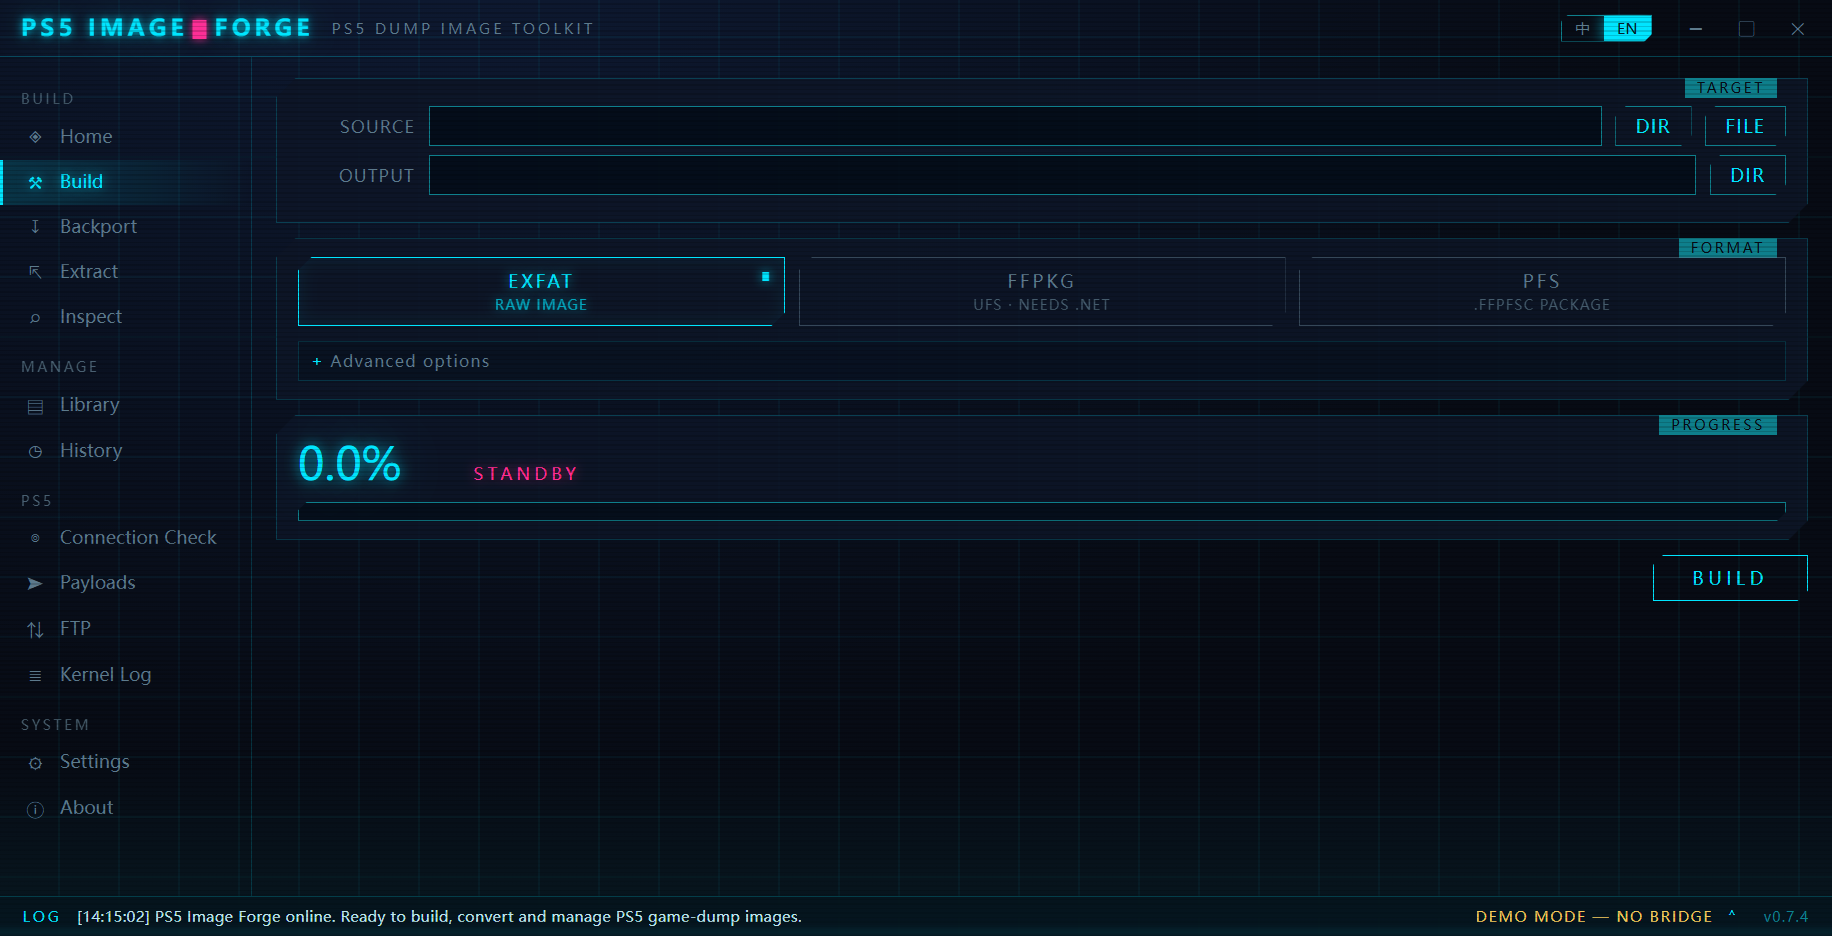
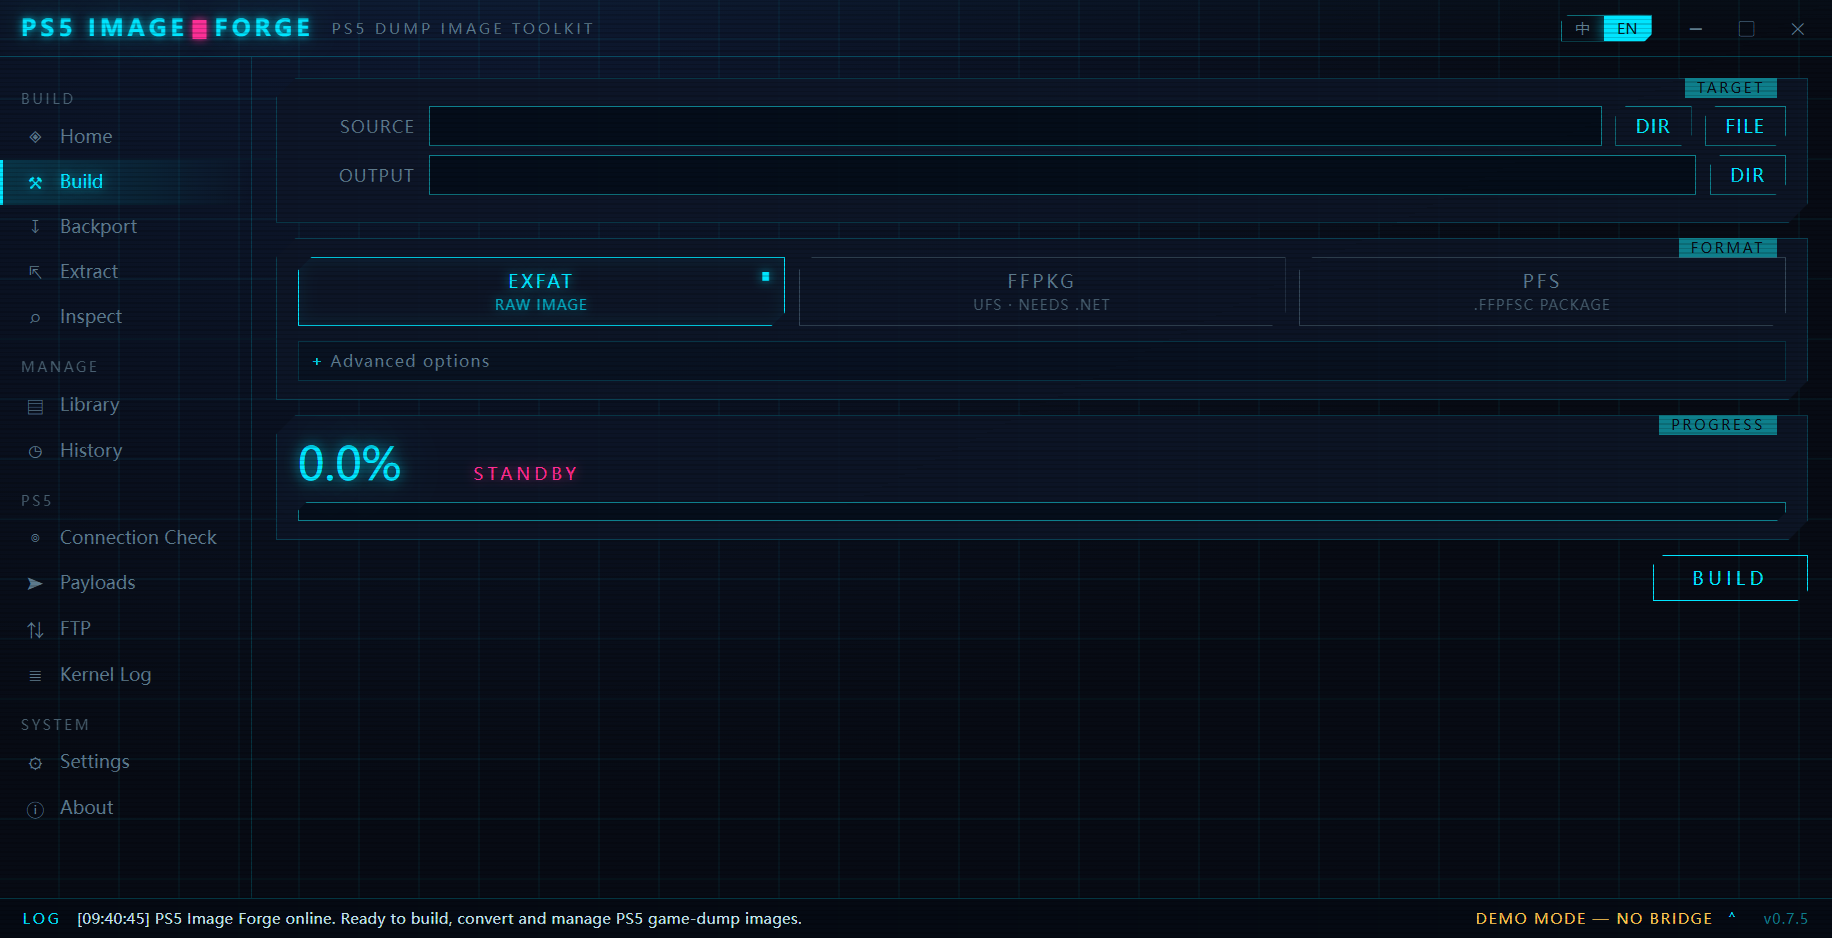
Sync the version to 0.7.5 everywhere, refresh the screenshots
__init__.py and webui/app.js were both still on 0.7.4 while pyproject said
0.7.5, so the shipped app reported a version it wasn't. Both are user-visible:
__version__ reaches the UI through bridge.py, APP_VERSION is what demo mode
shows. DEVELOPMENT.md now carries the bump checklist that would have caught it.

Screenshots were taken before the SCAN button moved to the Target SDK row, and
carried the old version in the footer; all four retaken.

READMEs: the platform badge omitted macOS, which has shipped since v0.7.4.

diff --git a/src/ps5_image_forge/webui/app.js b/src/ps5_image_forge/webui/app.js
@@ -9,7 +9,7 @@
 const $ = id => document.getElementById(id);
 const $$ = sel => Array.from(document.querySelectorAll(sel));
 const bridge = () => (window.pywebview && window.pywebview.api) || null;
-const APP_VERSION = "0.7.4";
+const APP_VERSION = "0.7.5";
 let currentUiScale = 1;
 
 function syncScaleLayout() {

diff --git a/src/ps5_image_forge/__init__.py b/src/ps5_image_forge/__init__.py
@@ -1,3 +1,3 @@
 """PS5 Image Forge — toolkit for building, converting and managing PS5 game-dump images."""
 
-__version__ = "0.7.4"
+__version__ = "0.7.5"

diff --git a/docs/DEVELOPMENT.md b/docs/DEVELOPMENT.md
@@ -110,6 +110,20 @@ PS5-Image-Forge-Setup-<ver>.exe      setup.nsi，SilentInstall silent
 - **绝不强杀主程序**：检测到运行中就提示用户关闭并提供「重新检测」。
 - `uninstall.exe` 是外层 setup 的逐字节副本，靠 `--self=$EXEPATH` 复用同一个壳。
 
+### 发版前的版本号清单
+
+版本号散在三处源文件里，**漏一处就会发出自相矛盾的版本**（0.7.5 就漏过两处：
+应用里显示 0.7.4，包版本却是 0.7.5）：
+
+| 位置 | 用途 |
+|---|---|
+| `pyproject.toml` 的 `version` | 包版本，CI 与构建脚本都读它 |
+| `src/ps5_image_forge/__init__.py` 的 `__version__` | 经 `bridge.py` 显示在 UI 上 |
+| `src/ps5_image_forge/webui/app.js` 的 `APP_VERSION` | demo 模式（无后端）时的显示值 |
+
+另外 `docs/DEVELOPMENT.md` 的状态头、`docs/screenshots/` 里印着版本号的截图，
+以及 CHANGELOG 也要一起更新。
+
 ### 发布（`.github/workflows/release.yml`）
 
 推送 `v*` tag 触发，产出 Windows 便携版 + 安装版、Linux AppImage、macOS DMG，

diff --git a/README.md b/README.md
@@ -6,7 +6,7 @@
 
 [![release](https://github.com/freefrank/ps5-image-forge/actions/workflows/release.yml/badge.svg)](https://github.com/freefrank/ps5-image-forge/actions/workflows/release.yml)
 [![License: GPL-3.0](https://img.shields.io/badge/License-GPLv3-blue.svg)](LICENSE)
-![Platform](https://img.shields.io/badge/platform-Windows%20%7C%20Linux-8A2BE2)
+![Platform](https://img.shields.io/badge/platform-Windows%20%7C%20Linux%20%7C%20macOS-8A2BE2)
 ![Python](https://img.shields.io/badge/python-3.11%2B-3776AB)
 
 English · [简体中文](README.zh-CN.md)

diff --git a/README.zh-CN.md b/README.zh-CN.md
@@ -6,7 +6,7 @@
 
 [![release](https://github.com/freefrank/ps5-image-forge/actions/workflows/release.yml/badge.svg)](https://github.com/freefrank/ps5-image-forge/actions/workflows/release.yml)
 [![License: GPL-3.0](https://img.shields.io/badge/License-GPLv3-blue.svg)](LICENSE)
-![Platform](https://img.shields.io/badge/platform-Windows%20%7C%20Linux-8A2BE2)
+![Platform](https://img.shields.io/badge/platform-Windows%20%7C%20Linux%20%7C%20macOS-8A2BE2)
 ![Python](https://img.shields.io/badge/python-3.11%2B-3776AB)
 
 [English](README.md) · 简体中文
